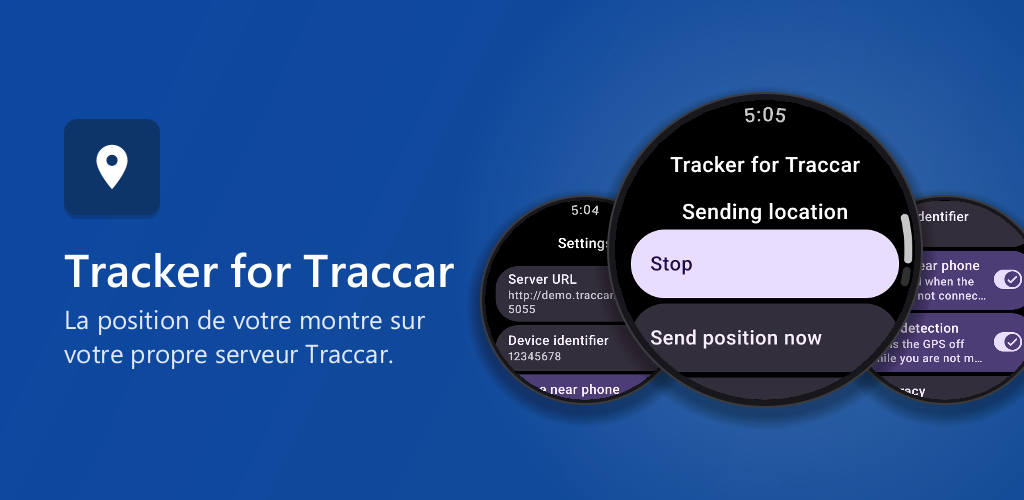
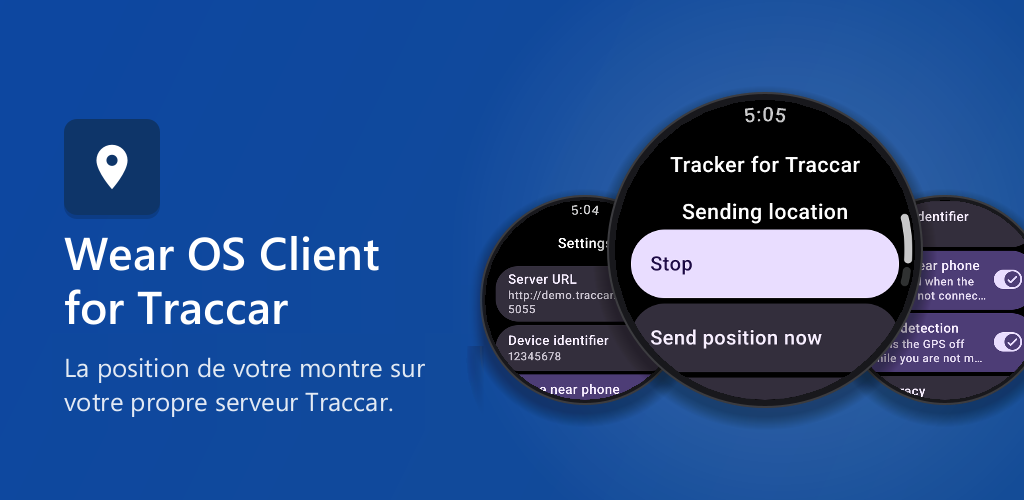
Título de la ficha: Wear OS Client for Traccar en todos los idiomas

Changed region(s): [[0.0625, 0.48, 0.4375, 0.66], [0.0625, 0.69, 0.4062, 0.84]]

diff --git a/README.md b/README.md
@@ -20,7 +20,7 @@ Built on the **official Traccar Client SDK**, and it goes silent while your phon
 [![9 languages](https://img.shields.io/badge/languages-9-8E6FD8)](#features)
 [![Latest release](https://img.shields.io/github/v/release/Eduzyrtin/TraccarWearClient?color=C6F28E&label=download)](https://github.com/Eduzyrtin/TraccarWearClient/releases/latest)
 
-<img src="docs/media/hero.gif" alt="Tracker for Traccar on a Wear OS watch" width="300">
+<img src="docs/media/hero.gif" alt="Wear OS Client for Traccar on a Wear OS watch" width="300">
 
 <table>
   <tr>
@@ -37,7 +37,7 @@ Built on the **official Traccar Client SDK**, and it goes silent while your phon
 >
 > **It is not for you if** your watch only works connected to your phone, or if you always carry your phone: use the official **Traccar Client** on the phone instead. [More details](#who-is-this-app-for).
 
-> **Free, on Google Play and GitHub.** Tracker for Traccar is completely free. Install it from **[Google Play](https://play.google.com/store/apps/details?id=com.sanabria.traccarwearosclient)** for automatic updates, or download the APK from **[GitHub Releases](https://github.com/Eduzyrtin/TraccarWearClient/releases/latest)**. Same app either way.
+> **Free, on Google Play and GitHub.** Wear OS Client for Traccar is completely free. Install it from **[Google Play](https://play.google.com/store/apps/details?id=com.sanabria.traccarwearosclient)** for automatic updates, or download the APK from **[GitHub Releases](https://github.com/Eduzyrtin/TraccarWearClient/releases/latest)**. Same app either way.
 
 </div>
 
@@ -196,13 +196,13 @@ Please open an **[issue](https://github.com/Eduzyrtin/TraccarWearClient/issues)*
 
 ## Support the project
 
-Tracker for Traccar is a passion project and it is **free**, on Google Play and on GitHub. If it is useful to you:
+Wear OS Client for Traccar is a passion project and it is **free**, on Google Play and on GitHub. If it is useful to you:
 
 - ☕ **[Buy me a coffee on Ko-fi](https://ko-fi.com/Eduzyrtin)**
 - ▶ **[Get it on Google Play](https://play.google.com/store/apps/details?id=com.sanabria.traccarwearosclient)**: automatic updates included.
 - ⭐ Star the repo and tell someone who tracks their runs or rides with Traccar.
 
-Looking for the other half? **[Viewer for Traccar](https://github.com/Eduzyrtin/TraccarWearViewer)** shows your devices on a map on your wrist, with a tile per person or vehicle.
+Looking for the other half? **[Wear OS Viewer for Traccar](https://github.com/Eduzyrtin/TraccarWearViewer)** shows your devices on a map on your wrist, with a tile per person or vehicle.
 
 ## Building from source
 
@@ -253,7 +253,7 @@ Tested on the Wear OS API 34 emulator (UI, permissions, tracking, stop detection
 
 Copyright (C) 2026 Eduardo Sanabria.
 
-Tracker for Traccar is free software released under the **[GNU General Public License v3.0](LICENSE)**. You can use, study, share and modify it, and any modified version you distribute has to stay under the same license. The Traccar Client SDK keeps its own Apache-2.0 license, which is compatible with the GPLv3.
+Wear OS Client for Traccar is free software released under the **[GNU General Public License v3.0](LICENSE)**. You can use, study, share and modify it, and any modified version you distribute has to stay under the same license. The Traccar Client SDK keeps its own Apache-2.0 license, which is compatible with the GPLv3.
 
 <div align="center">
 <sub>"Traccar" is a trademark of its respective owners. This app is not affiliated with them.</sub>

diff --git a/docs/PLAY_STORE.md b/docs/PLAY_STORE.md
@@ -1,4 +1,4 @@
-# Google Play: Tracker for Traccar
+# Google Play: Wear OS Client for Traccar
 
 Paquete `com.sanabria.traccarwearosclient` · solo Wear OS · ficha en [`fastlane/metadata/android/`](../fastlane/metadata/android)
 (formato estándar, ver §8 de `HERRAMIENTAS/GUIA_PROYECTOS.md`). Idiomas: los 9 de la app; `en-US` es el predeterminado.
